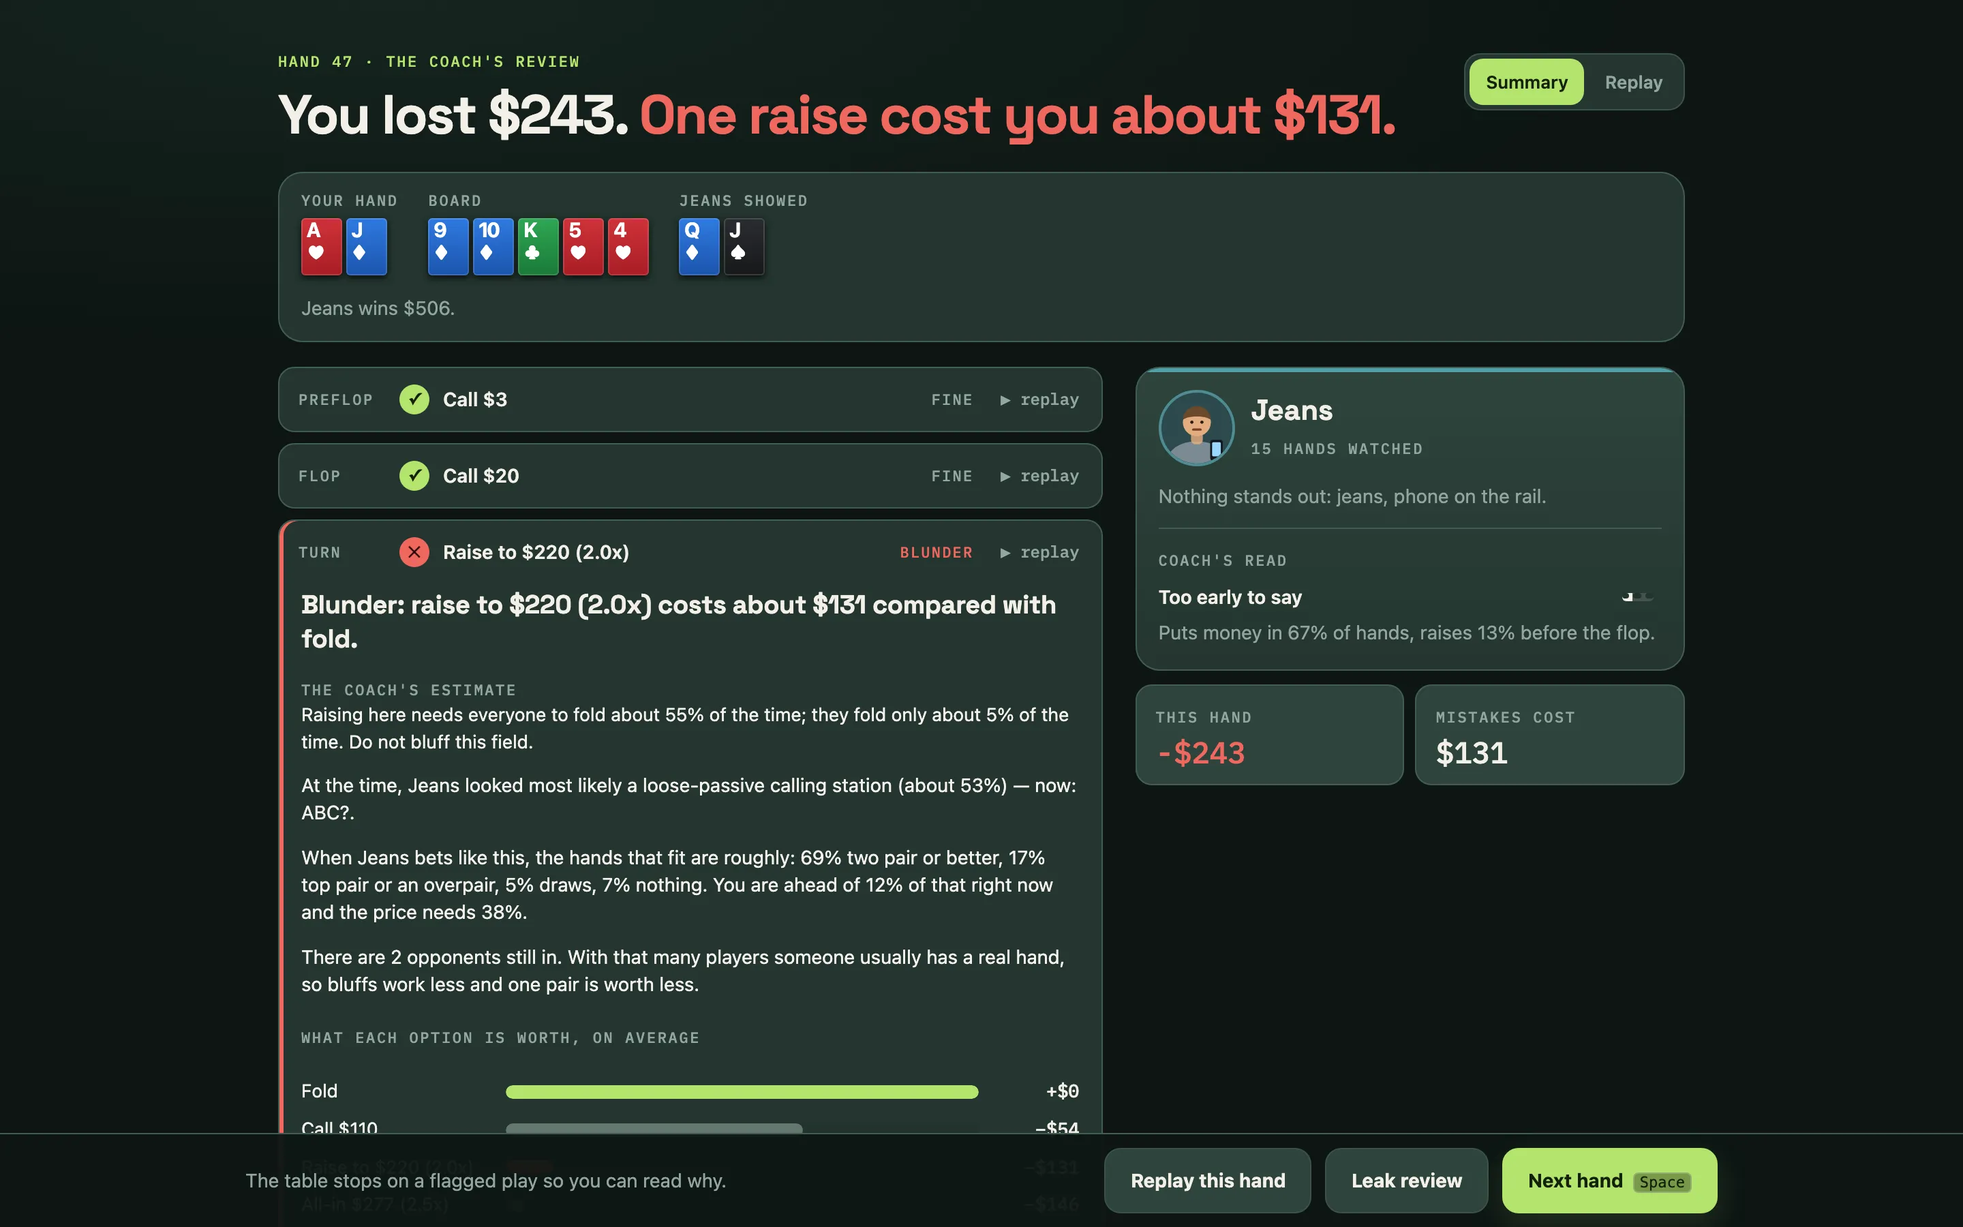
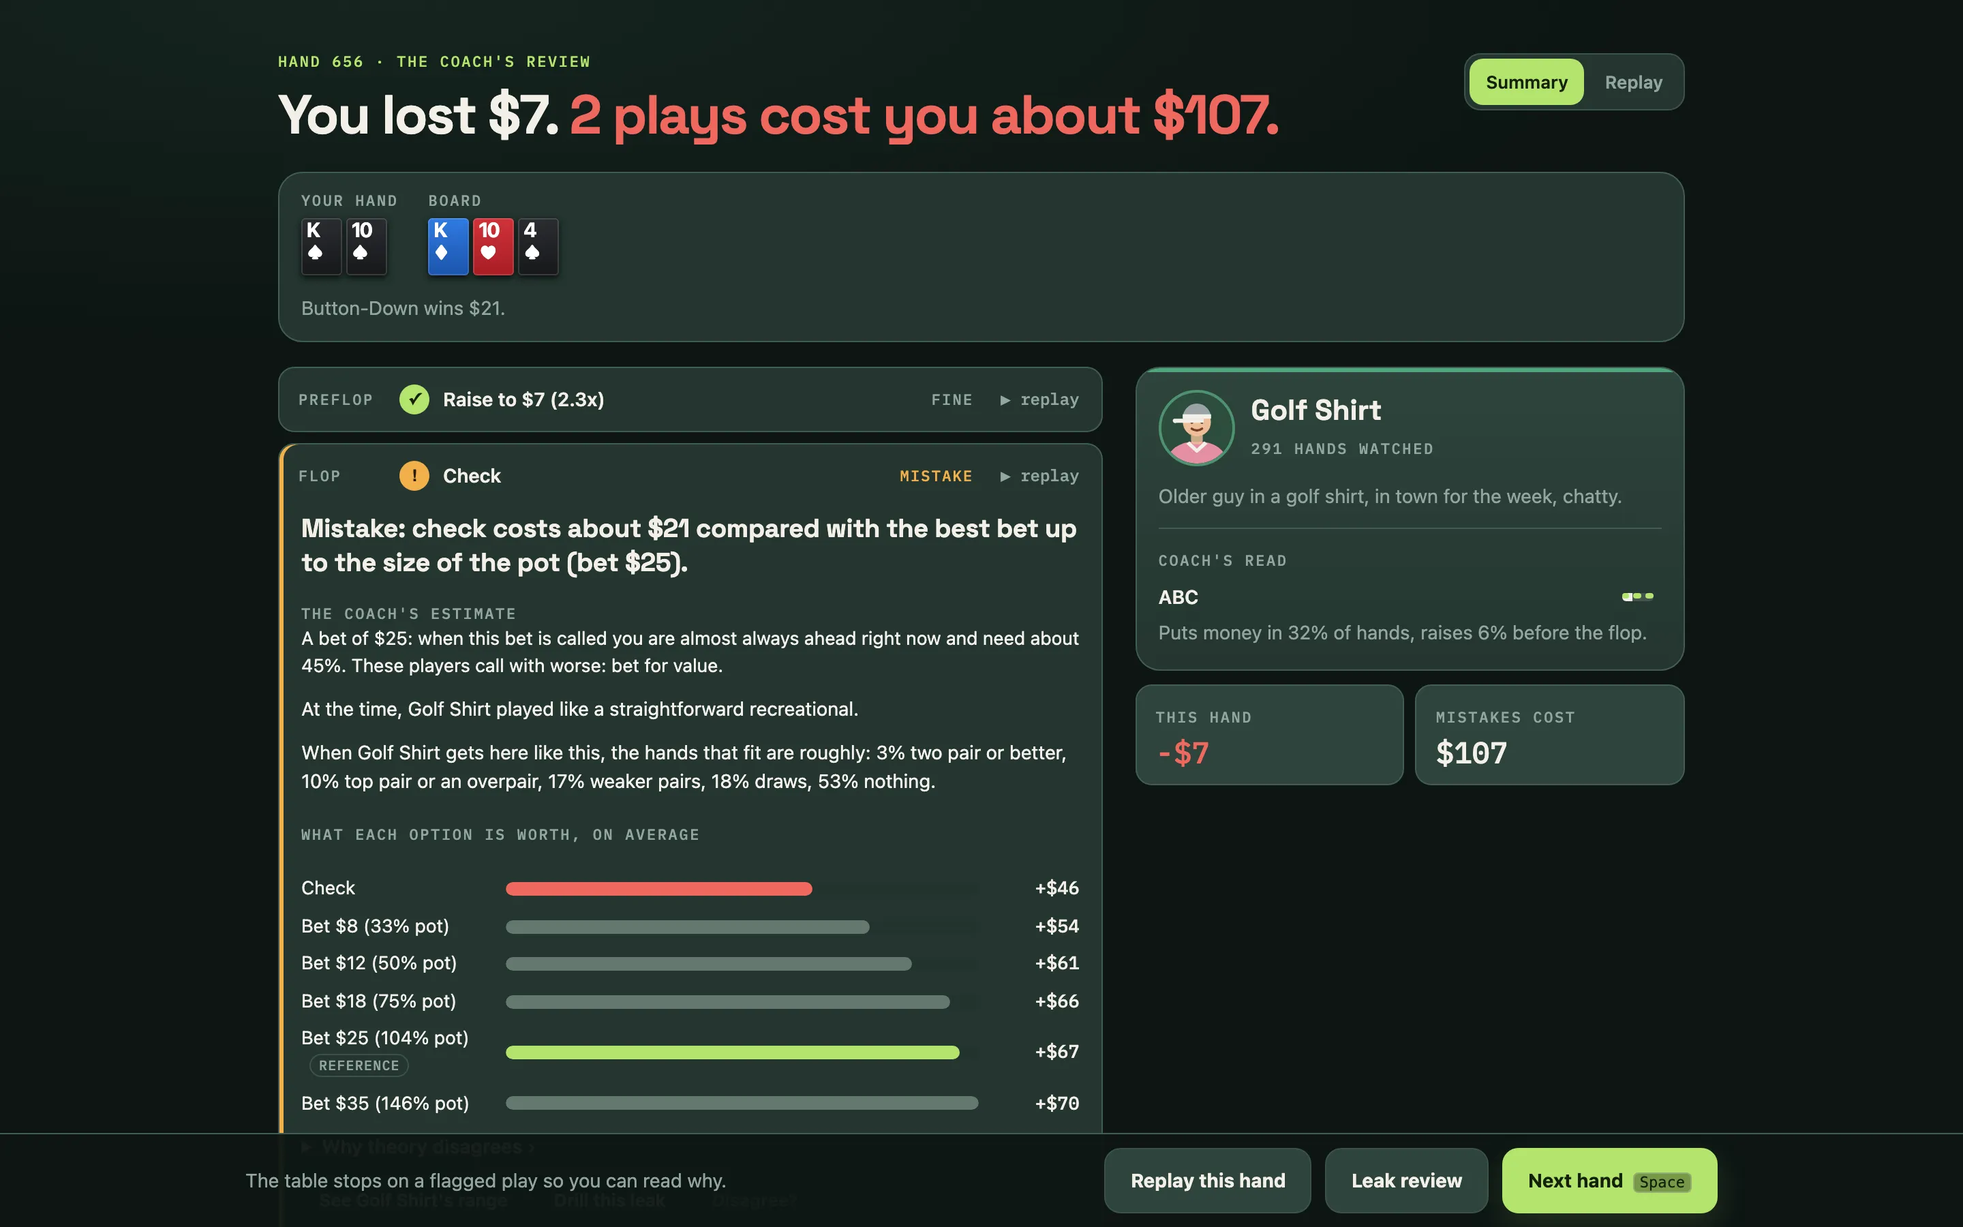
Docs and reads: QA's six docs fixes, one wording for the coach's read, an overcall fixture
- Landing: the station slider shows the app's 69% (late position, unraised) and says the
  all-seat figure is about 58%; the raise slider is labelled the same way.
- README: "Deal me in"; the FAQ is under More (⋯), or Menu on a phone. review.webp retaken
  after the "?." fix (a flagged check, the estimate and the read at the time).
- FAQ: the "Drill" button; the leak list gains passing up a profitable bet, overplaying and
  strong hands; play-outs are "up to" 3,000 / 1,500 / 800; Quick sim is under More or on the
  placard before the first hand.
- app.js: readGuess/readLevel shared by the seat, the player card and the review, so a weak
  read reads "Too early to say" everywhere ("now: too early to say." in a review).
- test/overcall.test.js (POOL §6): one pair facing a bet and a call against the bet alone, by
  type, turn and river, half pot and pot. No inversions outside seven named known gaps (abc,
  beginner, lag), the solver-style type and the baseline within 10 points of equilibrium, and no
  pool type tighter than equilibrium.

diff --git a/test/overcall.test.js b/test/overcall.test.js
@@ -1,0 +1,89 @@
+// Overcalls by player type (POOL, 13 Nov 2026): one pair facing a bet AND a call, three-way, against
+// the same hand as first defender with one player still to act. Real one-pair combos on fixed turn
+// and river boards, half pot and pot. Three guards:
+//   1. no type continues more as overcaller than as first defender (the inversion SOLVER found);
+//   2. the solver-style type and the theory baseline stay within 10 points of the equilibrium band;
+//   3. no other type is tighter than equilibrium (the pool calls too much, it does not overfold).
+import { test } from 'node:test';
+import assert from 'node:assert/strict';
+import { parseCards } from '../src/engine/cards.js';
+import { handFeatures, boardTexture } from '../src/engine/features.js';
+import { postflopPolicy } from '../src/bots/policy.js';
+import { PROFILES, TYPE_IDS, BASELINE_PROFILE } from '../src/bots/profiles.js';
+
+const bb = 3;
+const SETS = {
+  turn: [
+    { board: 'Kh 8c 4d 2s', tp: ['As Kd', 'Kd Qc', 'Kc Jd', 'Ks 9d', 'Kd 6c'], mp: ['8s 7d', '9h 8d', 'Ah 8s', 'Qs Qd'] },
+    { board: 'Qd Th 5c 3s', tp: ['Ad Qc', 'Qs Jd', 'Kc Qh', 'Qh 9s', 'Qc 7d'], mp: ['Ts 9d', 'Ac Tc', 'Jh Ts', 'Jc Jd'] },
+  ],
+  river: [
+    { board: 'Kh 8c 4d 2s 6h', tp: ['As Kd', 'Kd Qc', 'Kc Jd', 'Ks 9d', 'Kd 7c'], mp: ['8s 7d', '9h 8d', 'Ah 8s', 'Qs Qd'] },
+    { board: 'Qd Th 5c 3s 2d', tp: ['Ad Qc', 'Qs Jd', 'Kc Qh', 'Qh 9s', 'Qc 7d'], mp: ['Ts 9d', 'Ac Tc', 'Jh Ts', 'Jc Jd'] },
+  ],
+};
+// SOLVER's equilibrium continue % for the overcaller, [low, high].
+const EQ = {
+  turn: { 0.5: { tp: [24, 24] }, 1: { tp: [2, 2] } },
+  river: { 0.5: { tp: [12, 19], mp: [0, 0] }, 1: { tp: [0, 7], mp: [0, 0] } },
+};
+
+function cont(P, street, hole, board, frac, overcall) {
+  const st = street === 'turn' ? 2 : 3;
+  const pot0 = (st === 2 ? 30 : 50) * bb; // a typical three-way raised pot before the bet
+  const toCall = Math.round(frac * pot0);
+  const pot = pot0 + toCall * (overcall ? 2 : 1);
+  const stack = 300 - pot0 / 3;
+  const ctx = { street: st, pot, toCall, canRaise: true, canCheck: false, minTo: 2 * toCall, maxTo: stack, currentBet: toCall, myBet: 0, stack, bb, raises: 1, odds: toCall / (pot + toCall), nOpp: 2, inPosition: overcall, aggressorBehind: false, initiative: false, toActBehind: overcall ? 0 : 1, callersIn: overcall ? 1 : 0, iBetThisStreet: false };
+  const cards = parseCards(board);
+  return 1 - postflopPolicy(ctx, P, handFeatures(parseCards(hole), cards, boardTexture(cards))).fold;
+}
+const cell = (P, street, frac, key, oc) => {
+  let s = 0;
+  let n = 0;
+  for (const S of SETS[street]) for (const h of S[key]) (s += cont(P, street, h, S.board, frac, oc)), n++;
+  return (100 * s) / n;
+};
+// Known gaps in the approved values (13 Nov 2026): these cells still continue a little more as
+// overcaller. Reported to POOL; any other inversion fails.
+const KNOWN = new Set(['abc turn 1 mp', 'abc river 0.5 tp', 'abc river 0.5 mp', 'lag river 0.5 tp', 'beginner turn 1 mp', 'beginner river 0.5 tp', 'beginner river 0.5 mp']);
+const ALL = [...TYPE_IDS.map((id) => [id, PROFILES[id]]), ['baseline', BASELINE_PROFILE]];
+
+test('overcalls: no type continues more facing a bet and a call than facing the bet alone (known gaps aside)', (t) => {
+  const bad = [];
+  for (const [id, P] of ALL)
+    for (const street of ['turn', 'river'])
+      for (const frac of [0.5, 1])
+        for (const key of ['tp', 'mp']) {
+          const first = cell(P, street, frac, key, false);
+          const over = cell(P, street, frac, key, true);
+          if (over <= first + 0.5) continue;
+          if (KNOWN.has(`${id} ${street} ${frac} ${key}`)) t.diagnostic(`known gap: ${id} ${street} ${frac} pot ${key}: ${first.toFixed(0)} first, ${over.toFixed(0)} over`);
+          else bad.push(`${id} ${street} ${frac} pot ${key}: ${first.toFixed(0)} first, ${over.toFixed(0)} over`);
+        }
+  assert.deepEqual(bad, []);
+});
+
+test('overcalls: the solver-style type and the baseline sit within 10 points of equilibrium', () => {
+  const bad = [];
+  for (const [id, P] of ALL.filter(([id]) => id === 'gto' || id === 'baseline'))
+    for (const street of ['turn', 'river'])
+      for (const frac of [0.5, 1])
+        for (const [key, [lo, hi]] of Object.entries(EQ[street][frac])) {
+          const v = cell(P, street, frac, key, true);
+          if (v < lo - 10 || v > hi + 10) bad.push(`${id} ${street} ${frac} pot ${key}: ${v.toFixed(0)} against ${lo}-${hi}`);
+        }
+  assert.deepEqual(bad, []);
+});
+
+test('overcalls: no pool type folds more than equilibrium', () => {
+  const bad = [];
+  for (const [id, P] of ALL.filter(([id]) => id !== 'gto' && id !== 'baseline'))
+    for (const street of ['turn', 'river'])
+      for (const frac of [0.5, 1])
+        for (const [key, [lo]] of Object.entries(EQ[street][frac])) {
+          const v = cell(P, street, frac, key, true);
+          if (v < lo - 0.5) bad.push(`${id} ${street} ${frac} pot ${key}: ${v.toFixed(0)} below ${lo}`);
+        }
+  assert.deepEqual(bad, []);
+});

diff --git a/faq.html b/faq.html
@@ -128,7 +128,7 @@
   <ol>
     <li><strong>Who are they?</strong> For each opponent still in the hand it uses the current read: what an attentive player could conclude from their look, their betting and their showdowns so far.</li>
     <li><strong>What can they hold?</strong> It works out which hands fit the way that kind of player has played this hand. A nit who limped, called a raise and check-raised the turn has a very different range from a maniac who did the same.</li>
-    <li><strong>Play it out.</strong> It deals the opponents hands from those ranges and plays the rest of the hand to the end for each of your options: fold, call, and several bet or raise sizes. It does this 3,000 times before and on the flop, 1,500 times on the turn and about 800 times on the river, using the same cards for every option so the comparison is fair.</li>
+    <li><strong>Play it out.</strong> It deals the opponents hands from those ranges and plays the rest of the hand to the end for each of your options: fold, call, and several bet or raise sizes. It does this up to 3,000 times before and on the flop, up to 1,500 times on the turn and up to about 800 times on the river (fewer in big multiway pots, or when time runs short), using the same cards for every option so the comparison is fair.</li>
     <li><strong>Compare.</strong> The average result of each option is its value. If the option you chose is clearly worse than the best one, it is flagged.</li>
   </ol>
   <p>Your own later decisions in those play-outs are made by a solid, exploit-aware stand-in. So "call" is valued as "call now and then play the rest of the hand sensibly".</p>
@@ -186,7 +186,7 @@
   <p>Because the most reliable way to win at these stakes is to charge people who call too much, and most players bet too small with their good hands. You are only ever compared with bets up to the size of the pot (up to three-quarters of it with one pair), and in a pot with several players a bet of 45% of the pot or more is never marked as too small.</p>
 
   <h3 id="howlong">How many hands before a read means anything?</h3>
-  <p>About 30 hands separates the extremes: you will know the nit from the gambler. Telling neighbours apart, such as a solid regular from a tricky one, takes much longer. If you want to skip the wait, the <strong>Quick sim</strong> button plays 40 hands in an instant so you start with something observed about everyone; your results in those hands do not count.</p>
+  <p>About 30 hands separates the extremes: you will know the nit from the gambler. Telling neighbours apart, such as a solid regular from a tricky one, takes much longer. If you want to skip the wait, <strong>Quick sim</strong> (under More (⋯) in the header, or on the placard before your first hand) plays 40 hands in an instant so you start with something observed about everyone; your results in those hands do not count.</p>
 
   <h3 id="replay">Can I go back over a hand?</h3>
   <p>Yes. Your last 100 hands are kept in your browser. <strong>Hand history</strong> in the header lists them, and you can filter to flagged hands. Open one, or press "Replay" in any hand review, and step through it action by action: the pot and the price at each step, the coach's verdict at each of your decisions, the opponents' ranges as they stood at that moment, and "Show all cards" to see what everyone held. The <strong>Hand log</strong> in the side panel shows the current hand street by street, and earlier hands from tonight open in the replayer.</p>
@@ -249,7 +249,7 @@
   <h2>Modes and settings</h2>
 
   <h3 id="drill">What is drill mode?</h3>
-  <p>Every flagged play is filed under a leak: paying off, folding too much, bluffing callers, missed value, sizing, chasing draws, and four preflop leaks. <strong>Leak review</strong> ranks them by what they have cost you across all your sessions. Press <strong>Drill this</strong> on one and the trainer deals only that kind of spot, playing the earlier streets for you and stopping at the decision. One decision, one verdict, next spot. If your leak has only shown up on the turn, it deals turn spots.</p>
+  <p>Every flagged play is filed under a leak: paying off, folding too much, bluffing callers, missed value, passing up a profitable bet, overplaying, sizing, chasing draws, strong hands played wrong, and four preflop leaks. <strong>Leak review</strong> ranks them by what they have cost you across all your sessions. Press <strong>Drill</strong> on one and the trainer deals only that kind of spot, playing the earlier streets for you and stopping at the decision. One decision, one verdict, next spot. If your leak has only shown up on the turn, it deals turn spots.</p>
 
   <h3 id="home">What is home game mode?</h3>
   <p>Your own stakes and your own cast. Set the blinds and buy-in, then choose how many of each type sit down: three maniacs, two nits and a total beginner, say. There is no rake, everyone rebuys, and nobody leaves. You know who is coming, but you still have to work out which seat is which.</p>

diff --git a/src/ui/app.js b/src/ui/app.js
@@ -408,8 +408,7 @@ function renderTable() {
       const pc = Math.round(top.p * 100);
       if (top.p >= 0.45) {
         const lvl = top.p >= 0.75 ? 3 : top.p >= 0.6 ? 2 : 1;
-        const word = shortType(top.id);
-        const label = lvl === 3 ? word : lvl === 2 ? `Likely ${word === 'ABC' ? word : word.toLowerCase()}` : `${word}?`;
+        const label = readGuess(top);
         read = `<div class="read ${lvl >= 2 ? 'firm' : ''}"><i class="conf c${lvl}"></i>${esc(label)}</div>`;
       }
     }
@@ -647,6 +646,15 @@ const noteLine = (d, cls) => {
   const n = noteText(d);
   return n ? `<p class="${cls}">${esc(n)}</p>` : '';
 };
+// The coach's read in words, the same everywhere (seat, player card, review): "Nit", "Likely nit",
+// "Nit?", or "Too early to say" below 45%.
+const readLevel = (top) => (top.p >= 0.75 ? 3 : top.p >= 0.6 ? 2 : top.p >= 0.45 ? 1 : 0);
+function readGuess(top) {
+  const word = shortType(top.id);
+  if (top.p >= 0.75) return word;
+  if (top.p >= 0.6) return `Likely ${word === 'ABC' ? word : word.toLowerCase()}`;
+  return top.p >= 0.45 ? `${word}?` : 'Too early to say';
+}
 // The read in a review is the one the coach had at the decision; say so, and what it is now when
 // it has moved on (STRAT, QA C4).
 function readThen(d, r) {
@@ -659,10 +667,8 @@ function readThen(d, r) {
   for (let t2 = 1; t2 < post.length; t2++) if (post[t2] > post[then]) then = t2;
   const nowTop = sess.readOf(vil.seat).ranked[0];
   if (nowTop.id !== TYPE_IDS[then]) {
-    const word = shortType(nowTop.id);
-    const lvl = nowTop.p >= 0.75 ? 3 : nowTop.p >= 0.6 ? 2 : nowTop.p >= 0.45 ? 1 : 0;
-    const guess = lvl === 3 ? word : lvl === 2 ? `Likely ${word === 'ABC' ? word : word.toLowerCase()}` : `${word}?`;
-    out = out.replace(/\.$/, '') + ` — now: ${guess}${/[?.]$/.test(guess) ? '' : '.'}`;
+    const guess = readGuess(nowTop);
+    out = out.replace(/\.$/, '') + ` — now: ${guess === 'Too early to say' ? 'too early to say' : guess}${/[?.]$/.test(guess) ? '' : '.'}`;
   }
   return out;
 }
@@ -1238,9 +1244,8 @@ function openReview(stored = false) {
     const p = sess.seats[vSeat];
     const r = sess.readOf(vSeat);
     const top = r.ranked[0];
-    const lvl = top.p >= 0.75 ? 3 : top.p >= 0.6 ? 2 : top.p >= 0.45 ? 1 : 0;
-    const word = shortType(top.id);
-    const guess = lvl === 3 ? word : lvl === 2 ? `Likely ${word === 'ABC' ? word : word.toLowerCase()}` : lvl === 1 ? `${word}?` : 'Too early to say';
+    const guess = readGuess(top);
+    const lvl = readLevel(top);
     card = `<article class="pc" style="--h:${p.hue ?? 160}"><div class="pc-head"><div class="big-avatar" style="--h:${p.hue ?? 160}">${avatarArt(p)}</div><div><div class="pc-name">${esc(p.nick)}</div><div class="pc-sub"><span class="label">${r.notes.hands} hands watched</span></div></div></div>
       <p class="pc-look">${esc(p.look)}.</p>
       <div class="pc-read"><span class="label">Coach's read</span><div class="pc-guess">${esc(guess)}<span class="conf">${[1, 2, 3].map((k) => `<i class="${k <= lvl ? 'on' : ''}"></i>`).join('')}</span></div>
@@ -1978,10 +1983,8 @@ function playerModal(seat) {
         .join('')
     : '<div class="empty">No showdowns seen yet.</div>';
   const top = r.ranked[0];
-  const lvl = top.p >= 0.75 ? 3 : top.p >= 0.6 ? 2 : top.p >= 0.45 ? 1 : 0;
-  // Same wording as the read on the seat: "Nit", "Likely nit", "Nit?".
-  const word = shortType(top.id);
-  const guess = lvl === 3 ? word : lvl === 2 ? `Likely ${word === 'ABC' ? word : word.toLowerCase()}` : lvl === 1 ? `${word}?` : 'Too early to say';
+  const guess = readGuess(top);
+  const lvl = readLevel(top);
   openModal(`
     <div class="pc" style="--h:${p.hue ?? 160}">
       <div class="pc-head"><div class="big-avatar" style="--h:${p.hue ?? 160}">${avatarArt(p)}</div>

diff --git a/index.html b/index.html
@@ -259,10 +259,10 @@
           <h2>Your game plays differently? Change it.</h2>
           <p class="lede">Casino tables from $1/$3 to $3/$5 with the rake taken out, or a home game with your own stakes and line-up. Every number behind every player type is on a slider, in plain words, with the original value next to it. Set the hands you play from each seat in My ranges, and the rest are folded for you.</p>
         </div>
-        <!-- The calling station's shipped values on the Players screen. -->
+        <!-- The calling station's shipped values on the Players screen (src/trainer/tuning.js: vpip[2], pfr[2]). -->
         <div aria-hidden="true">
-          <div class="slider"><div><span>Hands played</span><span class="mono pos">58%</span></div><div class="range" style="--v:62%"></div><small>Calling station, as shipped.</small></div>
-          <div class="slider"><div><span>Hands raised</span><span class="mono pos">6%</span></div><div class="range" style="--v:8%"></div><small>Calling station, as shipped.</small></div>
+          <div class="slider"><div><span>Hands played</span><span class="mono pos">69%</span></div><div class="range" style="--v:75%"></div><small>Calling station, as shipped: the hands he enters from late position when nobody has raised. Over every seat that comes to about 58%.</small></div>
+          <div class="slider"><div><span>Hands raised</span><span class="mono pos">6%</span></div><div class="range" style="--v:8%"></div><small>Calling station, as shipped: the hands he raises first in from late position.</small></div>
         </div>
       </div>
     </div>

diff --git a/play.html b/play.html
@@ -123,12 +123,12 @@
   "./src/trainer/replay.js": "./src/trainer/replay.js?v=09b1feab9d",
   "./src/trainer/session.js": "./src/trainer/session.js?v=4cf92fc7e6",
   "./src/trainer/tuning.js": "./src/trainer/tuning.js?v=ac5d58551d",
-  "./src/trainer/version.js": "./src/trainer/version.js?v=489d24c1b0",
+  "./src/trainer/version.js": "./src/trainer/version.js?v=6fba90c498",
   "./src/ui/presets.js": "./src/ui/presets.js?v=3df9813454",
   "./src/ui/store.js": "./src/ui/store.js?v=78c7440b74"
  }
 }
 </script>
-<script type="module" src="src/ui/app.js?v=dbe52a7cd6"></script>
+<script type="module" src="src/ui/app.js?v=dce2f57232"></script>
 </body>
 </html>

diff --git a/src/trainer/version.js b/src/trainer/version.js
@@ -1,6 +1,6 @@
 // Written by scripts/stamp.js: a build id over every module under src/, and the hash of each module
 // the judge worker imports (it checks the copies it loaded against these).
-export const BUILD = '34b34e2dddf0';
+export const BUILD = '7ba547d5abb9';
 export const HASHES = {
  "src/bots/policy.js": "1977b2277d",
  "src/bots/profiles.js": "119ec36c15",

diff --git a/README.md b/README.md
@@ -28,7 +28,7 @@ There are two ways to play:
 
 [![The table on the turn: your two cards, the board, the session placard in the corner, the coach's one-line verdict on your last play, your options, and the coach panel](docs/table.webp)](https://pizzafx.github.io/poker_trainer/)
 
-New here? The app has an **FAQ** (button in the header, or [`faq.html`](faq.html)) written
+New here? The app has an **FAQ** (under More (⋯) in the header, or Menu on a phone, or [`faq.html`](faq.html)) written
 for poker players: how decisions are graded, what the colours mean, and how far to trust it.
 
 ## Why not just study GTO?
@@ -58,7 +58,7 @@ cd poker_trainer
 ./start.sh
 ```
 
-Then open http://localhost:5173 and press **Play now** (or go straight to
+Then open http://localhost:5173 and press **Deal me in** (or go straight to
 http://localhost:5173/play.html).
 
 `start.sh` (macOS and Linux) uses the Node.js on your machine if it is version 18 or newer.
@@ -106,7 +106,7 @@ Hands deal on automatically while your play is green. Anything flagged stops the
 opens the coach's review of the hand, with the flagged play open: what it cost, what the
 opponent's range looks like, and what each option was worth.
 
-![The hand review: the result and what the mistake cost, the run-out, each decision with the flagged raise opened, the coach's estimate, every option's value, and the opponent's card](docs/review.webp)
+![The hand review: the result and what the mistake cost, the run-out, each decision with the flagged check opened, the coach's estimate, the read at the time, every option's value, and the opponent's card](docs/review.webp)
 
 <p>
   <img src="docs/player.webp" alt="A player's card: the coach's read, how often they put money in and what that means, and every showdown with how they played it" width="58%">
